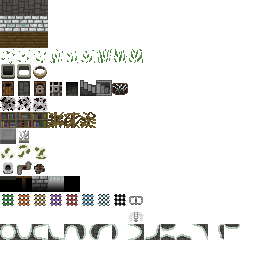
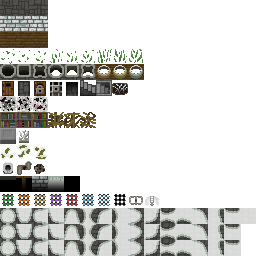
prepare for alpha

diff --git a/src/com/watabou/pixeldungeon/DungeonTilemap.java b/src/com/watabou/pixeldungeon/DungeonTilemap.java
@@ -17,6 +17,7 @@
  */
 package com.watabou.pixeldungeon;
 
+import com.watabou.noosa.CompositeImage;
 import com.watabou.noosa.Image;
 import com.watabou.noosa.NoosaScript;
 import com.watabou.noosa.TextureFilm;
@@ -62,14 +63,15 @@ public class DungeonTilemap extends Tilemap {
 		instance = this;
 	}
 
-	private int cellStableRandom(int cell, int min, int max) {
+	private static int cellStableRandom(int cell, int min, int max) {
 		int rnd = Math.abs((((cell ^ 0xAAAAAAAA) * 1103515245 + 12345) / 65536) % 32767);
 		double r = (double)rnd / 32767;
 
 		return min + (int) (r * (max - min + 1));
 	}
 
-	private int decoCell(int tileType, int cell) {
+	private static int decoCell(int cell) {
+		int tileType = Dungeon.level.map[cell];
 		switch (tileType) {
 		case Terrain.GRASS:
 			return 3 * 16 + cellStableRandom(cell, 0, 2);
@@ -115,16 +117,7 @@ public class DungeonTilemap extends Tilemap {
 
 		case Terrain.WALL_DECO:
 			return 10 * 16 + cellStableRandom(cell, 0, 2);
-
-		case Terrain.ALCHEMY:
-			return 4 * 16 + 2;
-
-		case Terrain.EMPTY_WELL:
-			return 4 * 16 + 0;
-
-		case Terrain.WELL:
-			return 4 * 16 + 1;
-
+			
 		case Terrain.TOXIC_TRAP:
 			return 12 * 16 + 0;
 		case Terrain.FIRE_TRAP:
@@ -151,23 +144,23 @@ public class DungeonTilemap extends Tilemap {
 
 	private int[] buildDecoMap() {
 		for (int i = 0; i < mDecoMap.length; i++) {
-			mDecoMap[i] = decoCell(Dungeon.level.map[i], i);
+			mDecoMap[i] = decoCell(i);
 		}
 
 		return mDecoMap;
 	}
 
-	private int groundCell(int tileType, int cell) {
-
+	private static int groundCell(int cell) {
+		int tileType = Dungeon.level.map[cell];
+		
 		if (tileType >= Terrain.WATER_TILES) {
-			return 14 * 16 + tileType - Terrain.WATER_TILES;
+			return 13 * 16 + tileType - Terrain.WATER_TILES;
 		}
 
 		switch (tileType) {
 		case Terrain.EMPTY:
 		case Terrain.GRASS:
 		case Terrain.EMPTY_DECO:
-		case Terrain.EMPTY_WELL:
 		case Terrain.SECRET_ALARM_TRAP:
 		case Terrain.SECRET_FIRE_TRAP:
 		case Terrain.SECRET_GRIPPING_TRAP:
@@ -192,7 +185,6 @@ public class DungeonTilemap extends Tilemap {
 		case Terrain.BARRICADE:
 		case Terrain.HIGH_GRASS:
 		case Terrain.SIGN:
-		case Terrain.WELL:
 		case Terrain.STATUE:
 		case Terrain.BOOKSHELF:
 			return cellStableRandom(cell, 0, 2);
@@ -207,9 +199,17 @@ public class DungeonTilemap extends Tilemap {
 		case Terrain.SECRET_DOOR:
 			return 16 + cellStableRandom(cell, 0, 2);
 
+		case Terrain.ALCHEMY:
+			return 4 * 16 + cellStableRandom(cell, 6, 8);
+
+		case Terrain.EMPTY_WELL:
+			return 4 * 16 + cellStableRandom(cell, 0, 2);
+
+		case Terrain.WELL:
+			return 4 * 16 + cellStableRandom(cell, 3, 5);
+			
 		case Terrain.EMPTY_SP:
 		case Terrain.STATUE_SP:
-		case Terrain.ALCHEMY:
 			return 2 * 16 + cellStableRandom(cell, 0, 2);
 
 		case Terrain.CHASM_FLOOR:
@@ -230,7 +230,7 @@ public class DungeonTilemap extends Tilemap {
 
 	private int[] buildGroundMap() {
 		for (int i = 0; i < mGroundMap.length; i++) {
-			mGroundMap[i] = groundCell(Dungeon.level.map[i], i);
+			mGroundMap[i] = groundCell(i);
 		}
 
 		return mGroundMap;
@@ -273,9 +273,20 @@ public class DungeonTilemap extends Tilemap {
 				(pos / Dungeon.level.getWidth() + 0.5f) * SIZE);
 	}
 
-	public static Image tile(int index) {
-		Image img = new Image(instance.texture);
-		img.frame(instance.tileset.get(index));
+	public static CompositeImage tile(int cell) {
+		
+		CompositeImage img = new CompositeImage(instance.texture);
+		
+		if (instance.mGroundLayer != null && instance.mDecoLayer != null) {
+			img.frame(instance.getTileset().get(groundCell(cell)));
+			Image deco = new Image(instance.texture);
+			deco.frame(instance.getTileset().get(decoCell(cell)));
+			img.addLayer(deco);
+			return img;
+		}
+		
+		
+		img.frame(instance.getTileset().get(Dungeon.level.map[cell]));
 		return img;
 	}
 
@@ -325,8 +336,8 @@ public class DungeonTilemap extends Tilemap {
 
 	public void updateCell(int cell) {
 		if (mGroundLayer != null && mDecoLayer != null) {
-			mGroundMap[cell] = groundCell(Dungeon.level.map[cell], cell);
-			mDecoMap[cell] = decoCell(Dungeon.level.map[cell], cell);
+			mGroundMap[cell] = groundCell(cell);
+			mDecoMap[cell] = decoCell(cell);
 			mGroundLayer.updateRegion().union(cell % Dungeon.level.getWidth(), cell / Dungeon.level.getWidth());
 			mDecoLayer.updateRegion().union(cell % Dungeon.level.getWidth(), cell / Dungeon.level.getWidth());
 		} else {

diff --git a/lib/com/watabou/noosa/CompositeImage.java b/lib/com/watabou/noosa/CompositeImage.java
@@ -1,0 +1,65 @@
+package com.watabou.noosa;
+
+import java.util.ArrayList;
+
+public class CompositeImage extends Image {
+
+	private ArrayList<Image> mLayers; 
+	
+	public CompositeImage() {
+		super();
+	}
+	
+	public CompositeImage( CompositeImage src ) {
+		this();
+		copy( src );
+	}
+	
+	public CompositeImage( Object tx ) {
+		this();
+		texture( tx );
+	}
+	
+	public CompositeImage( Object tx, int left, int top, int width, int height ) {
+		this( tx );
+		frame( texture.uvRect( left,  top,  left + width, top + height ) );
+	}
+
+	
+	public void addLayer(Image img) {
+		if(mLayers == null) {
+			mLayers = new ArrayList<>();
+		}
+		mLayers.add(img);
+	}
+	
+	@Override
+	public void draw() {
+		
+		super.draw();
+
+		NoosaScript script = NoosaScript.get();
+
+		texture.bind();
+		
+		script.camera( camera() );
+		
+		script.uModel.valueM4( matrix );
+		script.lighting( 
+			rm, gm, bm, am, 
+			ra, ga, ba, aa );
+		
+		updateVerticesBuffer();
+		
+		script.drawQuad( verticesBuffer );
+		
+		if(mLayers!=null) {
+			for(Image img:mLayers) {
+				img.texture.bind();
+				img.updateVerticesBuffer();
+				script.drawQuad(img.verticesBuffer);
+				
+			}
+		}
+	}
+}

diff --git a/lib/com/watabou/noosa/Image.java b/lib/com/watabou/noosa/Image.java
@@ -140,6 +140,14 @@ public class Image extends Visual {
 		dirty = true;
 	}
 	
+	public void updateVerticesBuffer() {
+		if (dirty) {
+			verticesBuffer.position( 0 );
+			verticesBuffer.put( vertices );
+			dirty = false;
+		}
+	}
+	
 	@Override
 	public void draw() {
 		
@@ -156,11 +164,8 @@ public class Image extends Visual {
 			rm, gm, bm, am, 
 			ra, ga, ba, aa );
 		
-		if (dirty) {
-			verticesBuffer.position( 0 );
-			verticesBuffer.put( vertices );
-			dirty = false;
-		}
+		updateVerticesBuffer();
+		
 		script.drawQuad( verticesBuffer );	
 	}
 }

diff --git a/lib/com/watabou/noosa/Tilemap.java b/lib/com/watabou/noosa/Tilemap.java
@@ -27,7 +27,7 @@ import android.graphics.RectF;
 public class Tilemap extends Visual {
 
 	protected SmartTexture texture;
-	protected TextureFilm tileset;
+	private TextureFilm tileset;
 	
 	protected int[] data;
 	protected int mapWidth;
@@ -154,5 +154,9 @@ public class Tilemap extends Visual {
 
 	public Rect updateRegion() {
 		return updated;
+	}
+
+	public TextureFilm getTileset() {
+		return tileset;
 	}
 }

diff --git a/src/com/watabou/pixeldungeon/windows/WndInfoCell.java b/src/com/watabou/pixeldungeon/windows/WndInfoCell.java
@@ -53,7 +53,7 @@ public class WndInfoCell extends Window {
 			water.frame( 0, 0, DungeonTilemap.SIZE, DungeonTilemap.SIZE );
 			titlebar.icon( water );
 		} else {
-			titlebar.icon( DungeonTilemap.tile( tile ) );
+			titlebar.icon( DungeonTilemap.tile( cell ) );
 		}
 		titlebar.label( Dungeon.level.tileName( tile ) );
 		titlebar.setRect( 0, 0, WIDTH, 0 );
